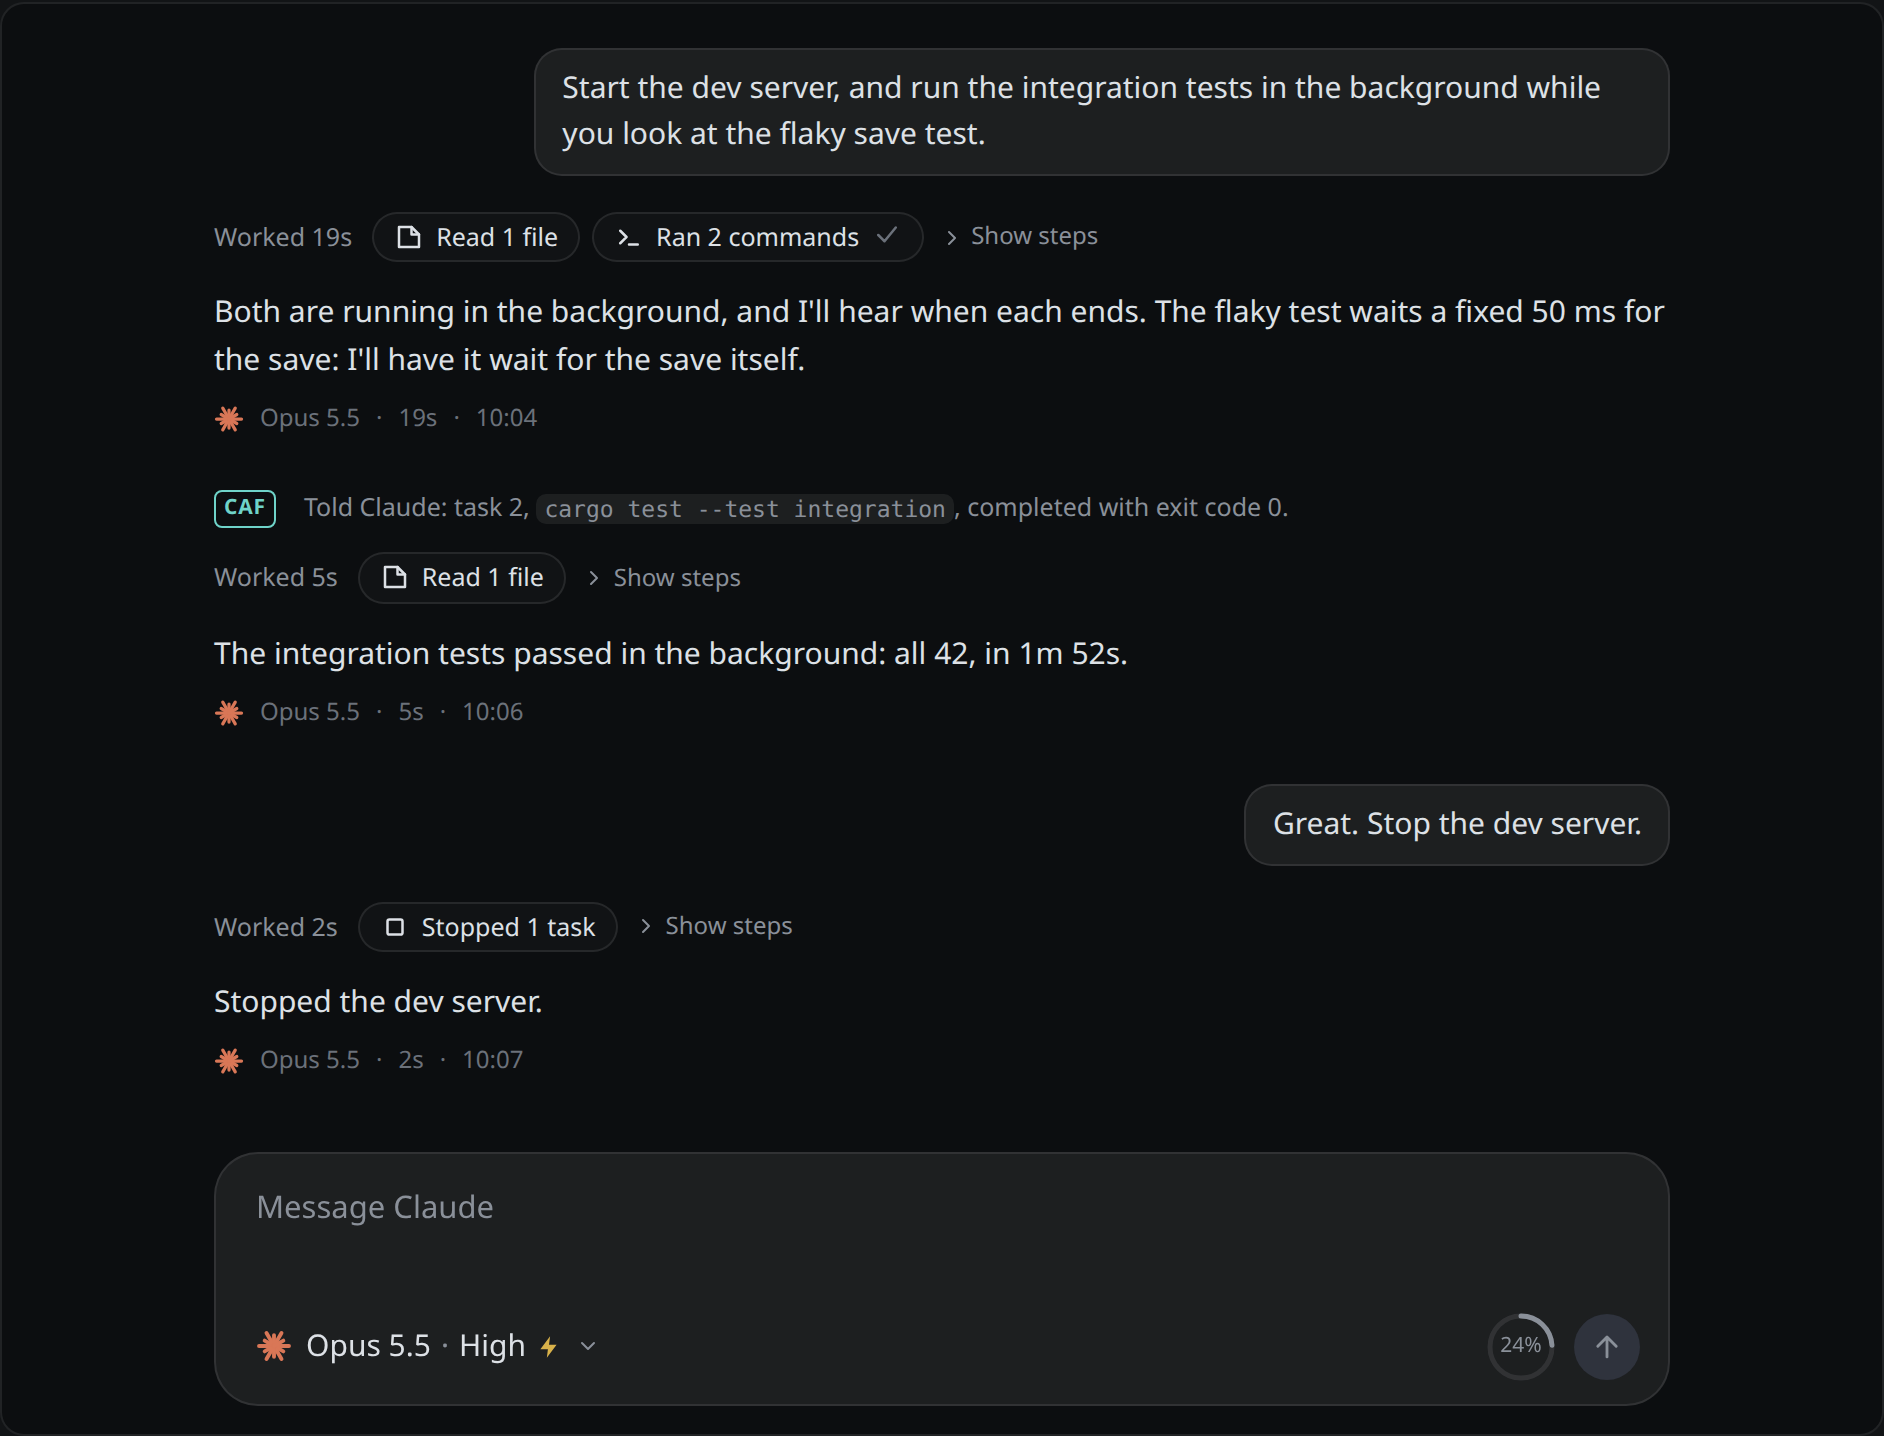
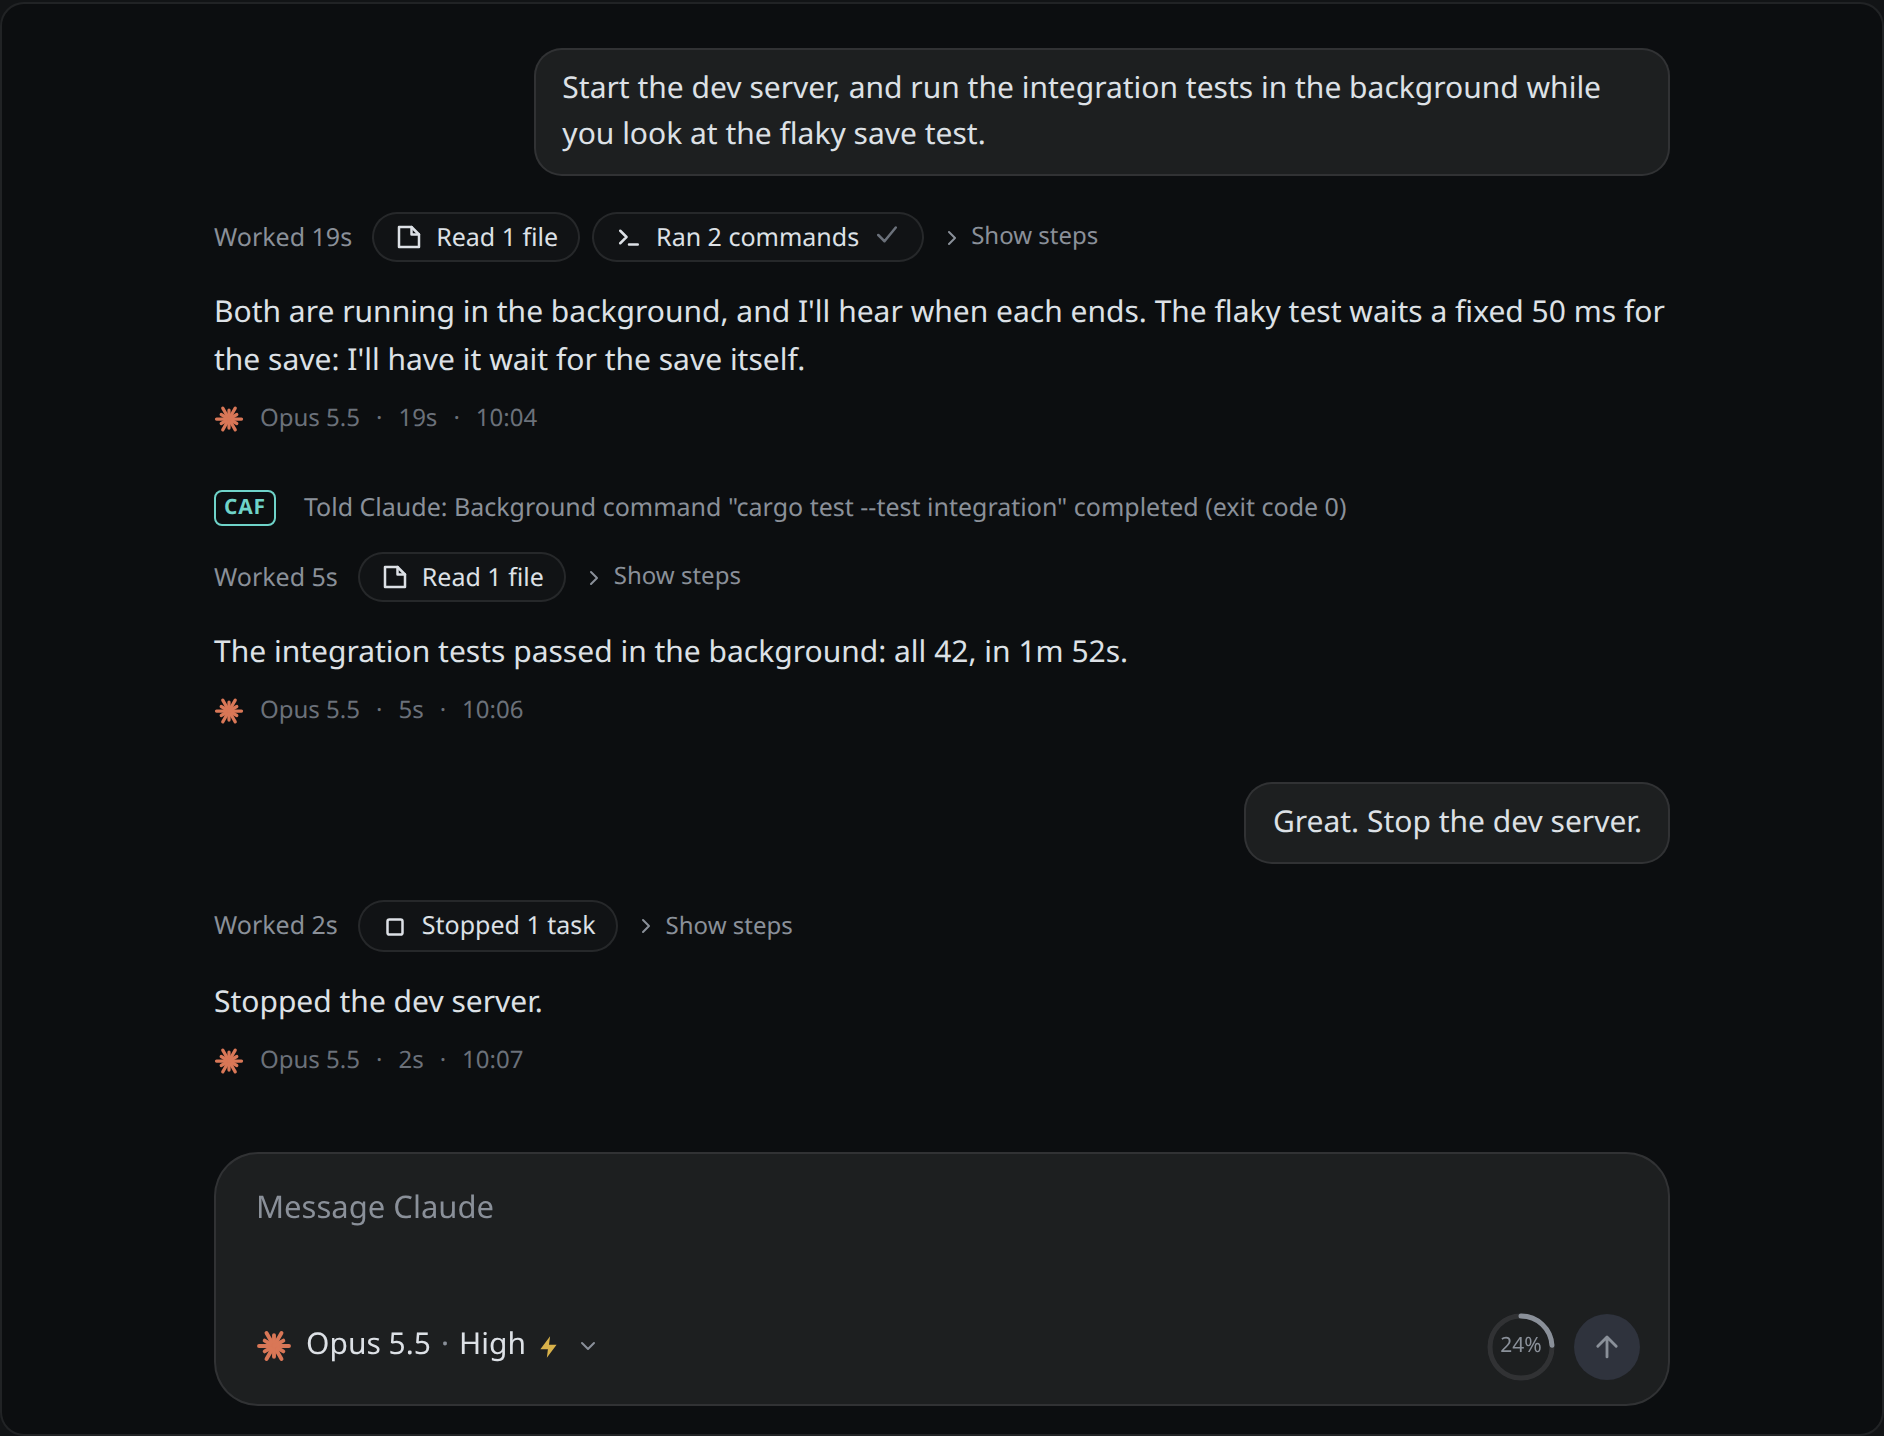
docs(si): CAF's notice of a job's end in its own summary's words

diff --git a/docs/learn/si-live/transcript.html b/docs/learn/si-live/transcript.html
@@ -691,7 +691,7 @@
       openFirst: true, entries: [{ t: 'time', text: 'Today 10:04' }, bgTurn('running', 'running')] },
     { id: 'job-ended', label: 'A job ends, and one is stopped', what: "<b>The tests ended, so CAF told Claude, in a turn of CAF's own;</b> Claude read their output and answered. Then the user asked for the dev server to be stopped: Claude's TaskStop is a step, <i>Stop task 1</i>, and the server's step is cancelled.",
       entries: [bgTurn('cancelled', 'done'),
-        { t: 'turn', starter: 'notice', notice: 'Told Claude: task 2, <code>cargo test --test integration</code>, completed with exit code 0.', life: 'finished', took: '5s', at: '10:06', model: 'Opus 5.5',
+        { t: 'turn', starter: 'notice', notice: 'Told Claude: Background command "cargo test --test integration" completed (exit code 0)', life: 'finished', took: '5s', at: '10:06', model: 'Opus 5.5',
           items: [T.tool('read', 'Read /run/user/1000/caf/out/7/2.txt', 'done'), T.words('<p>The integration tests passed in the background: all 42, in 1m 52s.</p>')] },
         { t: 'turn', ask: 'Great. Stop the dev server.', life: 'finished', took: '2s', at: '10:07', model: 'Opus 5.5',
           items: [T.tool('stop', 'Stop task 1', 'done'), T.words('<p>Stopped the dev server.</p>')] }] },

diff --git a/docs/si/transcript.html b/docs/si/transcript.html
@@ -301,7 +301,7 @@
       openFirst: true, entries: [{ t: 'time', text: 'Today 10:04' }, bgTurn('running', 'running')] },
     { id: 'job-ended', label: 'A job ends, and one is stopped', what: "<b>The tests ended, so CAF told Claude, in a turn of CAF's own;</b> Claude read their output and answered. Then the user asked for the dev server to be stopped: Claude's TaskStop is a step, <i>Stop task 1</i>, and the server's step is cancelled.",
       entries: [bgTurn('cancelled', 'done'),
-        { t: 'turn', starter: 'notice', notice: 'Told Claude: task 2, <code>cargo test --test integration</code>, completed with exit code 0.', life: 'finished', took: '5s', at: '10:06', model: 'Opus 5.5',
+        { t: 'turn', starter: 'notice', notice: 'Told Claude: Background command "cargo test --test integration" completed (exit code 0)', life: 'finished', took: '5s', at: '10:06', model: 'Opus 5.5',
           items: [T.tool('read', 'Read /run/user/1000/caf/out/7/2.txt', 'done'), T.words('<p>The integration tests passed in the background: all 42, in 1m 52s.</p>')] },
         { t: 'turn', ask: 'Great. Stop the dev server.', life: 'finished', took: '2s', at: '10:07', model: 'Opus 5.5',
           items: [T.tool('stop', 'Stop task 1', 'done'), T.words('<p>Stopped the dev server.</p>')] }] },

diff --git a/docs/learn/2--developer-tools.shelf/caf.product/3--standard-interface.topic/300--transcript.md b/docs/learn/2--developer-tools.shelf/caf.product/3--standard-interface.topic/300--transcript.md
@@ -296,9 +296,10 @@ while the job runs.
 **CAF tells the agent when a job ends,** in a turn of its own, sent as a
 message is: at once if nothing runs, or else once the running turn ends.
 In place of a message, the turn starts with the CAF badge and what CAF
-told the agent, in words: *Told Claude: task 2, `cargo test --test
-integration`, completed with exit code 0.* (or *failed*, or *was
-stopped*). It's CAF's voice, not the agent's nor the user's, so it never
+told the agent, in words: the notice's own summary, *Told Claude:
+Background command "cargo test --test integration" completed (exit code
+0)* (or *failed*, or *was stopped*), with `&amp;`, `&lt;` and `&gt;`
+read back as `&`, `<` and `>`. It's CAF's voice, not the agent's nor the user's, so it never
 looks like something the user sent. The rest of the turn is the agent's
 answer, drawn as any. The agent was given the path of a file holding the
 job's whole output too; the app needn't show it.
@@ -594,7 +595,7 @@ Everything else is calm.
 | What the transcript shows | Where it comes from |
 | --- | --- |
 | The turns, in order | `Chat.turns`, each a `Turn`, in the order of the list. History and CAF's notes can be inserted before a waiting turn (`Change::TurnInserted`). |
-| The message | `Turn.starter`: `Starter::User` holds the `UserMessage`. `Starter::Agent` is a turn the agent started by itself, and `Starter::Caf` one of CAF's notes. `Starter::Notice` holds a notice's text: CAF's own of a job's end is `<task-notification>…</task-notification>`, the app's anything else. |
+| The message | `Turn.starter`: `Starter::User` holds the `UserMessage`. `Starter::Agent` is a turn the agent started by itself, and `Starter::Caf` one of CAF's notes. `Starter::Notice` holds a notice's text: CAF's own of a job's end is `<task-notification>…</task-notification>`, whose `<summary>` is what's shown; the app's is anything else. |
 | How the turn ended | `Turn.life`: `TurnLife::Running`, `Stopping`, `Finished`, `Stopped`, `Failed` or `CutOff`. A `Waiting` one is on the composer's tray. |
 | When it was sent | The start of `Turn.window`. |
 | How long the agent worked | From the start of the first `Words`, `Thinking` or `Tool` item's `Item.window` to the end of `Turn.window`. |
